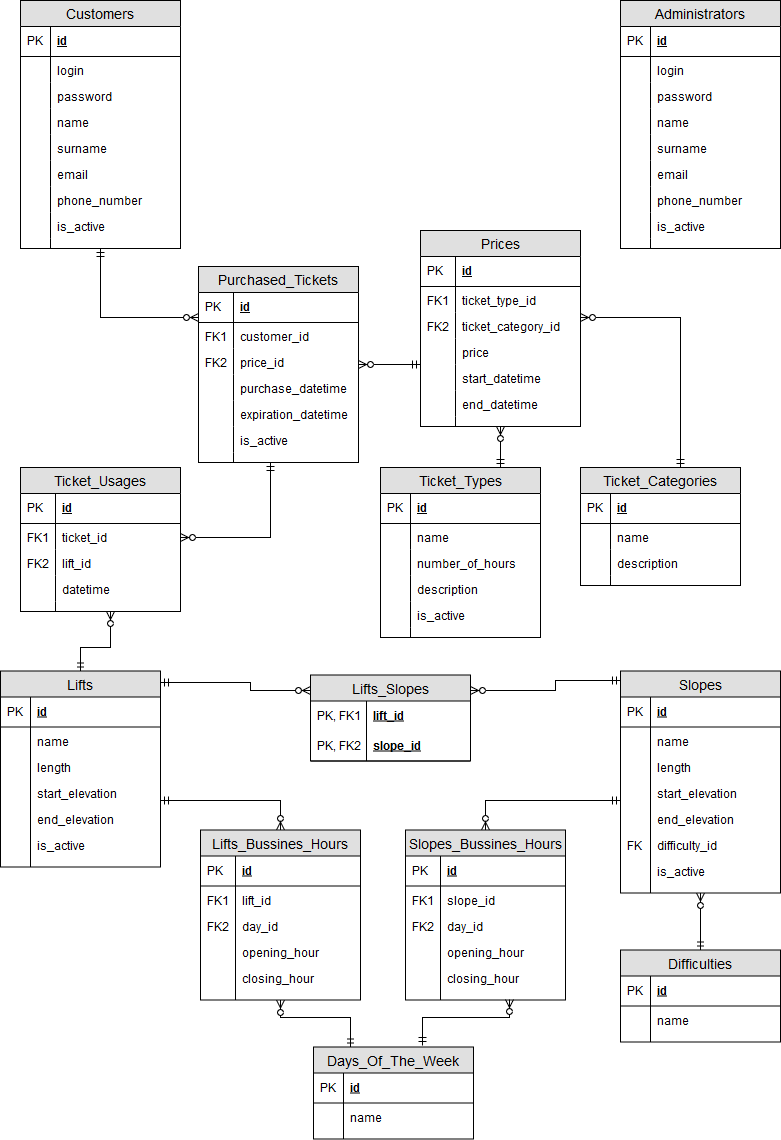
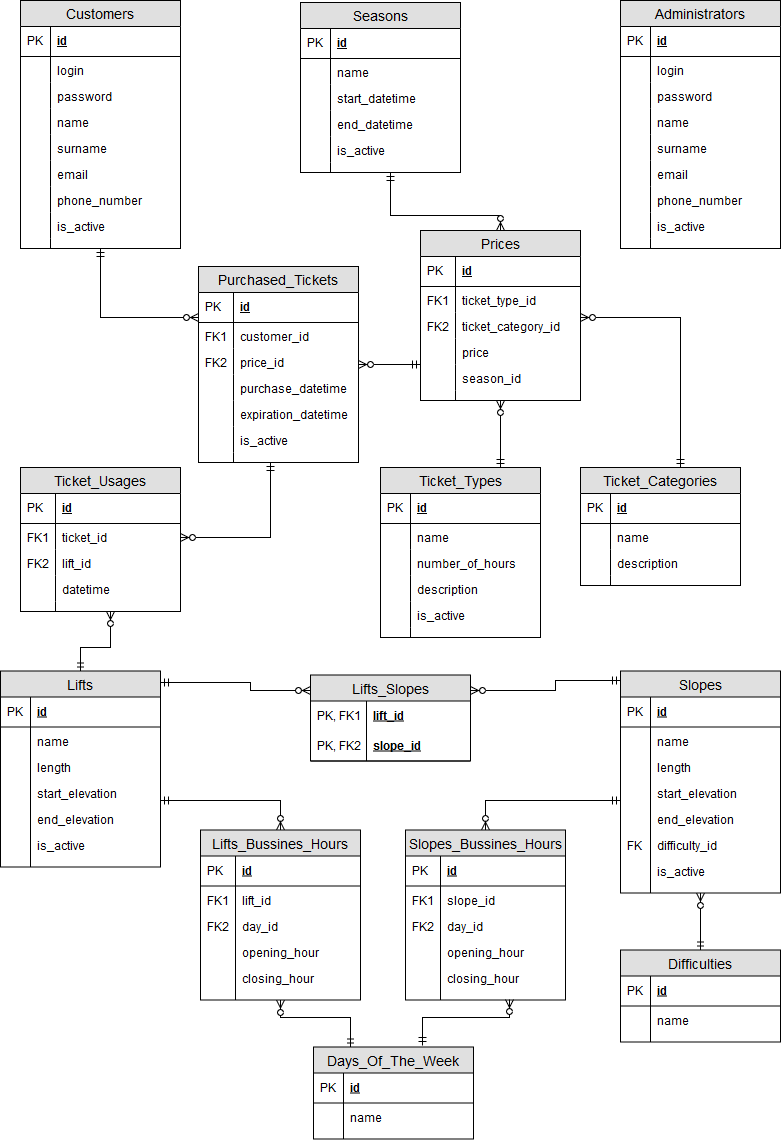
Refaktor modelu (sezony)
* Dodano klasę modelu Season
* Dodano repozytorium i serwis dla sezonów
* Modyfikacja klasy Price (teraz powiązana z sezonem)
* Dodano beana w JpaConfig

Changed region(s): [[0.3688, 0.0, 0.6146, 0.1535], [0.5839, 0.307, 0.6761, 0.3991], [0.6146, 0.1842, 0.6453, 0.2149]]

diff --git a/skisystem/SkiSystemDomain/src/main/java/pl/polsl/pp/service/SeasonService.java b/skisystem/SkiSystemDomain/src/main/java/pl/polsl/pp/service/SeasonService.java
@@ -1,0 +1,73 @@
+package pl.polsl.pp.service;
+
+import org.springframework.beans.factory.annotation.Autowired;
+import org.springframework.beans.factory.annotation.Qualifier;
+import pl.polsl.pp.model.Season;
+import pl.polsl.pp.repository.SeasonRepository;
+import pl.polsl.pp.service.interfaces.ISeasonService;
+
+import java.util.ArrayList;
+import java.util.List;
+
+public class SeasonService implements ISeasonService {
+
+    @Autowired
+    @Qualifier("seasonRepository")
+    private SeasonRepository seasonRepository;
+
+    @Override
+    public Season getSeasonById(Long id) {
+        return seasonRepository.findById(id).get();
+    }
+
+    @Override
+    public boolean saveSeason(Season season) {
+        try{
+            seasonRepository.save(season);
+            return true;
+        }catch (Exception e){
+            return false;
+        }
+    }
+
+    @Override
+    public boolean deleteSeasons(List<Long> ids) {
+        try{
+            ids.forEach(id -> seasonRepository.deleteById(id));
+            return true;
+        }catch (Exception e) {
+            return false;
+        }
+    }
+
+    @Override
+    public boolean activateSeasons(List<Long> ids) {
+        return changeActiveStatus(ids, true);
+    }
+
+    @Override
+    public boolean deactivateSeasons(List<Long> ids) {
+        return changeActiveStatus(ids, false);
+    }
+
+    @SuppressWarnings("Duplicates")
+    private boolean changeActiveStatus(List<Long> ids, boolean newStatus){
+        try{
+            List<Season> seasonList = (List<Season>)seasonRepository.findAllById(ids);
+            seasonList.forEach(s -> {
+                s.setIsActive(newStatus);
+            });
+            seasonRepository.saveAll(seasonList);
+            return true;
+        }catch (Exception e){
+            return false;
+        }
+    }
+
+    @Override
+    public List<Season> getAllSeasons() {
+        List<Season> seasonList = new ArrayList<>();
+        seasonRepository.findAll().forEach(s -> seasonList.add(s));
+        return seasonList;
+    }
+}

diff --git a/skisystem/SkiSystemDomain/src/main/java/pl/polsl/pp/model/Season.java b/skisystem/SkiSystemDomain/src/main/java/pl/polsl/pp/model/Season.java
@@ -1,0 +1,78 @@
+package pl.polsl.pp.model;
+
+import javax.persistence.*;
+import java.util.Date;
+
+/**
+ * Klasa reprezentująca sezon (okres czasu dla którego zdefionowane są ceny biletów)
+ */
+@Entity
+@Table(name="Seasons")
+public class Season {
+
+    @Id
+    @GeneratedValue(strategy = GenerationType.IDENTITY)
+    private Long id;
+
+    @Column(nullable = false, length = 100)
+    private String name;
+
+    @Column(nullable = false)
+    private Date startDatetime;
+
+    @Column
+    private Date endDatetime;
+
+    @Column(nullable = false)
+    private Boolean isActive;
+
+    public Season() {
+    }
+
+    public Season(String name, Date startDatetime, Date endDatetime, Boolean isActive) {
+        this.name = name;
+        this.startDatetime = startDatetime;
+        this.endDatetime = endDatetime;
+        this.isActive = isActive;
+    }
+
+    public Long getId() {
+        return id;
+    }
+
+    public void setId(Long id) {
+        this.id = id;
+    }
+
+    public String getName() {
+        return name;
+    }
+
+    public void setName(String name) {
+        this.name = name;
+    }
+
+    public Date getStartDatetime() {
+        return startDatetime;
+    }
+
+    public void setStartDatetime(Date startDatetime) {
+        this.startDatetime = startDatetime;
+    }
+
+    public Date getEndDatetime() {
+        return endDatetime;
+    }
+
+    public void setEndDatetime(Date endDatetime) {
+        this.endDatetime = endDatetime;
+    }
+
+    public Boolean getIsActive() {
+        return isActive;
+    }
+
+    public void setIsActive(Boolean active) {
+        isActive = active;
+    }
+}

diff --git a/skisystem/SkiSystemDomain/src/main/java/pl/polsl/pp/model/Price.java b/skisystem/SkiSystemDomain/src/main/java/pl/polsl/pp/model/Price.java
@@ -26,17 +26,18 @@ public class Price {
     @Column(nullable = false)
     private BigDecimal priceValue;
 
-    @Column(nullable = false)
-    private Boolean isSeason;
+    @ManyToOne(fetch=FetchType.LAZY)
+    @JoinColumn(name="season_id", nullable = false)
+    private Season season;
 
     public Price() {
     }
 
-    public Price(TicketType ticketType, TicketCategory ticketCategory, BigDecimal priceValue, Boolean isSeason) {
+    public Price(TicketType ticketType, TicketCategory ticketCategory, BigDecimal price, Season season) {
         this.ticketType = ticketType;
         this.ticketCategory = ticketCategory;
-        this.priceValue = priceValue;
-        this.isSeason = isSeason;
+        this.price = price;
+        this.season = season;
     }
 
     public Long getId() {
@@ -71,22 +72,19 @@ public class Price {
         this.priceValue = priceValue;
     }
 
-
-    public Boolean getIsSeason() {
-        return isSeason;
+    public Season getSeason() {
+        return season;
     }
 
-    public void setIsSeason(Boolean season) {
-        isSeason = season;
+    public void setSeason(Season season) {
+        this.season = season;
     }
 
     public String toString() {
         return (ticketType == null ? "" : ticketType.getName())
             + ", "
             + (ticketCategory == null ? "" : ticketCategory.getName())
-            + ", "
-            + (priceValue == null ? "" : priceValue.toString())
-            + ", "
-            + (isSeason == null ? "" : (isSeason ? "w sezonie" : "poza sezonem"));
+            + " "
+            + (season == null ? "" : season.getName());
     }
 }

diff --git a/skisystem/SkiSystemDomain/src/main/java/pl/polsl/pp/service/interfaces/ISeasonService.java b/skisystem/SkiSystemDomain/src/main/java/pl/polsl/pp/service/interfaces/ISeasonService.java
@@ -1,0 +1,15 @@
+package pl.polsl.pp.service.interfaces;
+
+import pl.polsl.pp.model.Season;
+
+import java.util.List;
+
+public interface ISeasonService {
+
+    Season getSeasonById(Long id);
+    boolean saveSeason(Season ticketCategory);
+    boolean deleteSeasons(List<Long> ids);
+    boolean activateSeasons(List<Long> ids);
+    boolean deactivateSeasons(List<Long> ids);
+    List<Season> getAllSeasons();
+}

diff --git a/skisystem/SkiSystemDomain/src/main/java/pl/polsl/pp/config/JpaConfig.java b/skisystem/SkiSystemDomain/src/main/java/pl/polsl/pp/config/JpaConfig.java
@@ -82,4 +82,8 @@ public class JpaConfig {
     @Bean
     @Qualifier("dayOfTheWeekService")
     public DayOfTheWeekService dayOfTheWeekServiceInterface() {return new DayOfTheWeekService();}
+
+    @Bean
+    @Qualifier("seasonService")
+    public SeasonService seasonServiceInterface(){return new SeasonService(); }
 }

diff --git a/skisystem/SkiSystemDomain/src/main/java/pl/polsl/pp/repository/SeasonRepository.java b/skisystem/SkiSystemDomain/src/main/java/pl/polsl/pp/repository/SeasonRepository.java
@@ -1,0 +1,9 @@
+package pl.polsl.pp.repository;
+
+import org.springframework.data.repository.CrudRepository;
+import org.springframework.stereotype.Repository;
+import pl.polsl.pp.model.Season;
+
+@Repository
+public interface SeasonRepository extends CrudRepository<Season,Long> {
+}
